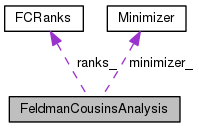
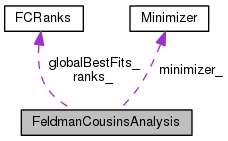
Deploy code docs to GitHub Pages Travis build: 34
Commit: 577bcd66e61e68fcf12d1c728ea380b63c1cfc5d

diff --git a/html/FeldmanCousins_8h_source.html b/html/FeldmanCousins_8h_source.html
@@ -183,23 +183,24 @@ var searchBox = new SearchBox("searchBox", "search",false,'Search');
 <div class="line"><a name="l00106"></a><span class="lineno">  106</span>&#160;</div>
 <div class="line"><a name="l00107"></a><span class="lineno"><a class="line" href="classFeldmanCousinsAnalysis.html#a369111f301236a55ef19aeb7ac0d9562">  107</a></span>&#160;        <a class="code" href="classFCRanks.html">FCRanks</a> &amp;<a class="code" href="classFeldmanCousinsAnalysis.html#a369111f301236a55ef19aeb7ac0d9562">GetRanks</a>(){<span class="keywordflow">return</span> <a class="code" href="classFeldmanCousinsAnalysis.html#a2a83aefd21bd62772ba9b8ef2a0afe37">ranks_</a>;}</div>
 <div class="line"><a name="l00108"></a><span class="lineno"><a class="line" href="classFeldmanCousinsAnalysis.html#a2a83aefd21bd62772ba9b8ef2a0afe37">  108</a></span>&#160;        <a class="code" href="classFCRanks.html">FCRanks</a> <a class="code" href="classFeldmanCousinsAnalysis.html#a2a83aefd21bd62772ba9b8ef2a0afe37">ranks_</a>;</div>
-<div class="line"><a name="l00109"></a><span class="lineno"><a class="line" href="classFeldmanCousinsAnalysis.html#a4a16f04a45c379c10b12f76714116226">  109</a></span>&#160;        <a class="code" href="classMinimizer.html">Minimizer</a> <a class="code" href="classFeldmanCousinsAnalysis.html#a4a16f04a45c379c10b12f76714116226">minimizer_</a>;</div>
-<div class="line"><a name="l00110"></a><span class="lineno">  110</span>&#160;<span class="keyword">private</span>:</div>
-<div class="line"><a name="l00111"></a><span class="lineno">  111</span>&#160;</div>
-<div class="line"><a name="l00112"></a><span class="lineno">  112</span>&#160;        boost::shared_ptr&lt;Likelihood&gt; llh_;</div>
-<div class="line"><a name="l00113"></a><span class="lineno">  113</span>&#160;        <span class="keyword">static</span> <span class="keywordtype">double</span> likelihoodRatioCrossings(<span class="keywordtype">double</span> xi, <span class="keywordtype">void</span> *params);</div>
-<div class="line"><a name="l00114"></a><span class="lineno">  114</span>&#160;</div>
-<div class="line"><a name="l00115"></a><span class="lineno">  115</span>&#160;        <span class="keywordtype">double</span> cl_;</div>
-<div class="line"><a name="l00116"></a><span class="lineno">  116</span>&#160;        <span class="keywordtype">bool</span> computedBestFit_;</div>
-<div class="line"><a name="l00117"></a><span class="lineno">  117</span>&#160;        <span class="keywordtype">bool</span> assumeChi2_;</div>
-<div class="line"><a name="l00118"></a><span class="lineno">  118</span>&#160;        <span class="keywordtype">bool</span> ranksCompSet_;</div>
-<div class="line"><a name="l00119"></a><span class="lineno">  119</span>&#160;        uint32_t likelihoodState_;</div>
-<div class="line"><a name="l00120"></a><span class="lineno">  120</span>&#160;};</div>
-<div class="line"><a name="l00121"></a><span class="lineno">  121</span>&#160;</div>
+<div class="line"><a name="l00109"></a><span class="lineno"><a class="line" href="classFeldmanCousinsAnalysis.html#a41ab3fd253179cd5fa77b651d4514fdc">  109</a></span>&#160;        <a class="code" href="classFCRanks.html">FCRanks</a> <a class="code" href="classFeldmanCousinsAnalysis.html#a41ab3fd253179cd5fa77b651d4514fdc">globalBestFits_</a>;</div>
+<div class="line"><a name="l00110"></a><span class="lineno"><a class="line" href="classFeldmanCousinsAnalysis.html#a4a16f04a45c379c10b12f76714116226">  110</a></span>&#160;        <a class="code" href="classMinimizer.html">Minimizer</a> <a class="code" href="classFeldmanCousinsAnalysis.html#a4a16f04a45c379c10b12f76714116226">minimizer_</a>;</div>
+<div class="line"><a name="l00111"></a><span class="lineno">  111</span>&#160;<span class="keyword">private</span>:</div>
+<div class="line"><a name="l00112"></a><span class="lineno">  112</span>&#160;</div>
+<div class="line"><a name="l00113"></a><span class="lineno">  113</span>&#160;        boost::shared_ptr&lt;Likelihood&gt; llh_;</div>
+<div class="line"><a name="l00114"></a><span class="lineno">  114</span>&#160;        <span class="keyword">static</span> <span class="keywordtype">double</span> likelihoodRatioCrossings(<span class="keywordtype">double</span> xi, <span class="keywordtype">void</span> *params);</div>
+<div class="line"><a name="l00115"></a><span class="lineno">  115</span>&#160;</div>
+<div class="line"><a name="l00116"></a><span class="lineno">  116</span>&#160;        <span class="keywordtype">double</span> cl_;</div>
+<div class="line"><a name="l00117"></a><span class="lineno">  117</span>&#160;        <span class="keywordtype">bool</span> computedBestFit_;</div>
+<div class="line"><a name="l00118"></a><span class="lineno">  118</span>&#160;        <span class="keywordtype">bool</span> assumeChi2_;</div>
+<div class="line"><a name="l00119"></a><span class="lineno">  119</span>&#160;        <span class="keywordtype">bool</span> ranksCompSet_;</div>
+<div class="line"><a name="l00120"></a><span class="lineno">  120</span>&#160;        uint32_t likelihoodState_;</div>
+<div class="line"><a name="l00121"></a><span class="lineno">  121</span>&#160;};</div>
 <div class="line"><a name="l00122"></a><span class="lineno">  122</span>&#160;</div>
 <div class="line"><a name="l00123"></a><span class="lineno">  123</span>&#160;</div>
 <div class="line"><a name="l00124"></a><span class="lineno">  124</span>&#160;</div>
-<div class="line"><a name="l00125"></a><span class="lineno">  125</span>&#160;<span class="preprocessor">#endif</span></div>
+<div class="line"><a name="l00125"></a><span class="lineno">  125</span>&#160;</div>
+<div class="line"><a name="l00126"></a><span class="lineno">  126</span>&#160;<span class="preprocessor">#endif</span></div>
 <div class="ttc" id="classFeldmanCousinsAnalysis_html_a2a83aefd21bd62772ba9b8ef2a0afe37"><div class="ttname"><a href="classFeldmanCousinsAnalysis.html#a2a83aefd21bd62772ba9b8ef2a0afe37">FeldmanCousinsAnalysis::ranks_</a></div><div class="ttdeci">FCRanks ranks_</div><div class="ttdef"><b>Definition:</b> FeldmanCousins.h:108</div></div>
 <div class="ttc" id="classFeldmanCousinsAnalysis_html_a2455d8b563e2f243f02c76d61bf10573"><div class="ttname"><a href="classFeldmanCousinsAnalysis.html#a2455d8b563e2f243f02c76d61bf10573">FeldmanCousinsAnalysis::GenerateLimitsEnsemble</a></div><div class="ttdeci">void GenerateLimitsEnsemble(double xi, bn::ndarray &amp;up, bn::ndarray &amp;down, uint64_t nExperiments, double cl=-1)</div><div class="ttdef"><b>Definition:</b> FeldmanCousins.cxx:238</div></div>
 <div class="ttc" id="classFeldmanCousinsAnalysis_html_a090ca9e45d445fed42345d0a71a589bd"><div class="ttname"><a href="classFeldmanCousinsAnalysis.html#a090ca9e45d445fed42345d0a71a589bd">FeldmanCousinsAnalysis::EvaluateTestsStatistic</a></div><div class="ttdeci">double EvaluateTestsStatistic(double xi)</div><div class="ttdef"><b>Definition:</b> FeldmanCousins.h:60</div></div>
@@ -211,12 +212,13 @@ var searchBox = new SearchBox("searchBox", "search",false,'Search');
 <div class="ttc" id="classFeldmanCousinsAnalysis_html_a5b2fbad9a24678ba86f0f5b082a5b726"><div class="ttname"><a href="classFeldmanCousinsAnalysis.html#a5b2fbad9a24678ba86f0f5b082a5b726">FeldmanCousinsAnalysis::FeldmanCousinsAnalysis</a></div><div class="ttdeci">FeldmanCousinsAnalysis(boost::shared_ptr&lt; Likelihood &gt; llh, double cl)</div><div class="ttdef"><b>Definition:</b> FeldmanCousins.h:45</div></div>
 <div class="ttc" id="classMinimizer_html_ace3797e38fc23cf74bf05a3b1c3cdc36"><div class="ttname"><a href="classMinimizer.html#ace3797e38fc23cf74bf05a3b1c3cdc36">Minimizer::bestFitLLH_</a></div><div class="ttdeci">double bestFitLLH_</div><div class="ttdoc">Log of the likelihood value at the best fit. </div><div class="ttdef"><b>Definition:</b> Minimizer.h:57</div></div>
 <div class="ttc" id="classFCRanks_html"><div class="ttname"><a href="classFCRanks.html">FCRanks</a></div><div class="ttdoc">A class that holds Feldman Cousins rank distribtions and provides some utilities to interpolate the c...</div><div class="ttdef"><b>Definition:</b> FCRanks.h:46</div></div>
+<div class="ttc" id="classFeldmanCousinsAnalysis_html_a41ab3fd253179cd5fa77b651d4514fdc"><div class="ttname"><a href="classFeldmanCousinsAnalysis.html#a41ab3fd253179cd5fa77b651d4514fdc">FeldmanCousinsAnalysis::globalBestFits_</a></div><div class="ttdeci">FCRanks globalBestFits_</div><div class="ttdef"><b>Definition:</b> FeldmanCousins.h:109</div></div>
 <div class="ttc" id="classFeldmanCousinsAnalysis_html_a0ed46c186508934d827e5fefef53be38"><div class="ttname"><a href="classFeldmanCousinsAnalysis.html#a0ed46c186508934d827e5fefef53be38">FeldmanCousinsAnalysis::ComputeLimits</a></div><div class="ttdeci">void ComputeLimits(double &amp;upper, double &amp;lower, bool assumeChi2)</div><div class="ttdef"><b>Definition:</b> FeldmanCousins.h:94</div></div>
 <div class="ttc" id="classFeldmanCousinsAnalysis_html_a369111f301236a55ef19aeb7ac0d9562"><div class="ttname"><a href="classFeldmanCousinsAnalysis.html#a369111f301236a55ef19aeb7ac0d9562">FeldmanCousinsAnalysis::GetRanks</a></div><div class="ttdeci">FCRanks &amp; GetRanks()</div><div class="ttdef"><b>Definition:</b> FeldmanCousins.h:107</div></div>
 <div class="ttc" id="classFeldmanCousinsAnalysis_html_a0f56a30ad2ec38520aa562fbea7f41cf"><div class="ttname"><a href="classFeldmanCousinsAnalysis.html#a0f56a30ad2ec38520aa562fbea7f41cf">FeldmanCousinsAnalysis::Sample</a></div><div class="ttdeci">void Sample(double xi)</div><div class="ttdef"><b>Definition:</b> FeldmanCousins.h:73</div></div>
 <div class="ttc" id="classMinimizer_html_a4419559871e702cd3da37d45081b1046"><div class="ttname"><a href="classMinimizer.html#a4419559871e702cd3da37d45081b1046">Minimizer::ComputeBestFit</a></div><div class="ttdeci">double ComputeBestFit(Likelihood &amp;lh)</div><div class="ttdef"><b>Definition:</b> Minimizer.cxx:15</div></div>
 <div class="ttc" id="Likelihood_8h_html"><div class="ttname"><a href="Likelihood_8h.html">Likelihood.h</a></div></div>
-<div class="ttc" id="classFeldmanCousinsAnalysis_html_a4a16f04a45c379c10b12f76714116226"><div class="ttname"><a href="classFeldmanCousinsAnalysis.html#a4a16f04a45c379c10b12f76714116226">FeldmanCousinsAnalysis::minimizer_</a></div><div class="ttdeci">Minimizer minimizer_</div><div class="ttdef"><b>Definition:</b> FeldmanCousins.h:109</div></div>
+<div class="ttc" id="classFeldmanCousinsAnalysis_html_a4a16f04a45c379c10b12f76714116226"><div class="ttname"><a href="classFeldmanCousinsAnalysis.html#a4a16f04a45c379c10b12f76714116226">FeldmanCousinsAnalysis::minimizer_</a></div><div class="ttdeci">Minimizer minimizer_</div><div class="ttdef"><b>Definition:</b> FeldmanCousins.h:110</div></div>
 <div class="ttc" id="classFCRanks_html_a04064e2ddef37f609caebed6eb4a7949"><div class="ttname"><a href="classFCRanks.html#a04064e2ddef37f609caebed6eb4a7949">FCRanks::AssumeChiSqure</a></div><div class="ttdeci">void AssumeChiSqure(bool assume)</div><div class="ttdef"><b>Definition:</b> FCRanks.h:104</div></div>
 <div class="ttc" id="Minimizer_8h_html"><div class="ttname"><a href="Minimizer_8h.html">Minimizer.h</a></div></div>
 <div class="ttc" id="FCRanks_8h_html"><div class="ttname"><a href="FCRanks_8h.html">FCRanks.h</a></div></div>

diff --git a/html/RNG_8h_source.html b/html/RNG_8h_source.html
@@ -113,7 +113,7 @@ var searchBox = new SearchBox("searchBox", "search",false,'Search');
 <div class="line"><a name="l00023"></a><span class="lineno">   23</span>&#160;</div>
 <div class="line"><a name="l00028"></a><span class="lineno"><a class="line" href="classRNG.html">   28</a></span>&#160;<span class="keyword">class </span><a class="code" href="classRNG.html">RNG</a>{</div>
 <div class="line"><a name="l00029"></a><span class="lineno">   29</span>&#160;   <span class="keyword">public</span>:</div>
-<div class="line"><a name="l00030"></a><span class="lineno"><a class="line" href="classRNG.html#add68b5f4738198b83f1021a1817fd821">   30</a></span>&#160;        <a class="code" href="classRNG.html#add68b5f4738198b83f1021a1817fd821">RNG</a>(uint seed):<a class="code" href="classRNG.html#a6b240cba939fb5463c7497153a852320">seed_</a>(seed){</div>
+<div class="line"><a name="l00030"></a><span class="lineno"><a class="line" href="classRNG.html#ad1a0404ddd79895cfc05432f06c9c385">   30</a></span>&#160;        <a class="code" href="classRNG.html#ad1a0404ddd79895cfc05432f06c9c385">RNG</a>(<span class="keywordtype">unsigned</span> <span class="keywordtype">int</span> seed):<a class="code" href="classRNG.html#aa644a44fe1386322507d92e23066d063">seed_</a>(seed){</div>
 <div class="line"><a name="l00031"></a><span class="lineno">   31</span>&#160;            <span class="keyword">const</span> gsl_rng_type *T = gsl_rng_default;</div>
 <div class="line"><a name="l00032"></a><span class="lineno">   32</span>&#160;            rng_ = gsl_rng_alloc(T);</div>
 <div class="line"><a name="l00033"></a><span class="lineno">   33</span>&#160;            gsl_rng_set(rng_, seed);</div>
@@ -125,7 +125,7 @@ var searchBox = new SearchBox("searchBox", "search",false,'Search');
 <div class="line"><a name="l00039"></a><span class="lineno"><a class="line" href="classRNG.html#a959d86ea22fc5bb2f5ff6ded9881137a">   39</a></span>&#160;        <span class="keywordtype">double</span> <a class="code" href="classRNG.html#a959d86ea22fc5bb2f5ff6ded9881137a">Poisson</a>(<span class="keywordtype">double</span> nu){<span class="keywordflow">return</span> gsl_ran_poisson(rng_, nu);}</div>
 <div class="line"><a name="l00040"></a><span class="lineno"><a class="line" href="classRNG.html#afe51d6c541a71af3a80c2ecf86d81523">   40</a></span>&#160;        <span class="keywordtype">double</span> <a class="code" href="classRNG.html#afe51d6c541a71af3a80c2ecf86d81523">Gauss</a>(<span class="keywordtype">double</span> mu, <span class="keywordtype">double</span> sigma){<span class="keywordflow">return</span> gsl_ran_gaussian(rng_, sigma) + mu;}</div>
 <div class="line"><a name="l00041"></a><span class="lineno"><a class="line" href="classRNG.html#a37fc5d27bda97b756e92565183f48d66">   41</a></span>&#160;        <span class="keywordtype">double</span> <a class="code" href="classRNG.html#a37fc5d27bda97b756e92565183f48d66">Binomial</a>(<span class="keywordtype">double</span> p, <span class="keywordtype">double</span> N){ <span class="keywordflow">return</span> gsl_ran_binomial(rng_, p,N);}</div>
-<div class="line"><a name="l00042"></a><span class="lineno"><a class="line" href="classRNG.html#a6b240cba939fb5463c7497153a852320">   42</a></span>&#160;        uint <a class="code" href="classRNG.html#a6b240cba939fb5463c7497153a852320">seed_</a>;</div>
+<div class="line"><a name="l00042"></a><span class="lineno"><a class="line" href="classRNG.html#aa644a44fe1386322507d92e23066d063">   42</a></span>&#160;        <span class="keywordtype">unsigned</span> <span class="keywordtype">int</span> <a class="code" href="classRNG.html#aa644a44fe1386322507d92e23066d063">seed_</a>;</div>
 <div class="line"><a name="l00043"></a><span class="lineno">   43</span>&#160;    <span class="keyword">private</span>:</div>
 <div class="line"><a name="l00044"></a><span class="lineno">   44</span>&#160;        gsl_rng *rng_;</div>
 <div class="line"><a name="l00045"></a><span class="lineno">   45</span>&#160;</div>
@@ -135,12 +135,12 @@ var searchBox = new SearchBox("searchBox", "search",false,'Search');
 <div class="ttc" id="classRNG_html_a6f369de914cf763da0a0bc8c17affb12"><div class="ttname"><a href="classRNG.html#a6f369de914cf763da0a0bc8c17affb12">RNG::Uniform</a></div><div class="ttdeci">double Uniform()</div><div class="ttdef"><b>Definition:</b> RNG.h:37</div></div>
 <div class="ttc" id="classRNG_html_a37fc5d27bda97b756e92565183f48d66"><div class="ttname"><a href="classRNG.html#a37fc5d27bda97b756e92565183f48d66">RNG::Binomial</a></div><div class="ttdeci">double Binomial(double p, double N)</div><div class="ttdef"><b>Definition:</b> RNG.h:41</div></div>
 <div class="ttc" id="classRNG_html_afe51d6c541a71af3a80c2ecf86d81523"><div class="ttname"><a href="classRNG.html#afe51d6c541a71af3a80c2ecf86d81523">RNG::Gauss</a></div><div class="ttdeci">double Gauss(double mu, double sigma)</div><div class="ttdef"><b>Definition:</b> RNG.h:40</div></div>
-<div class="ttc" id="classRNG_html_a6b240cba939fb5463c7497153a852320"><div class="ttname"><a href="classRNG.html#a6b240cba939fb5463c7497153a852320">RNG::seed_</a></div><div class="ttdeci">uint seed_</div><div class="ttdef"><b>Definition:</b> RNG.h:42</div></div>
 <div class="ttc" id="classRNG_html"><div class="ttname"><a href="classRNG.html">RNG</a></div><div class="ttdoc">A small wrapper class around the GSL random number generator. </div><div class="ttdef"><b>Definition:</b> RNG.h:28</div></div>
 <div class="ttc" id="classRNG_html_aa8a14d0a3367ada957ab898ff6974957"><div class="ttname"><a href="classRNG.html#aa8a14d0a3367ada957ab898ff6974957">RNG::Exp</a></div><div class="ttdeci">double Exp(double tau)</div><div class="ttdef"><b>Definition:</b> RNG.h:38</div></div>
-<div class="ttc" id="classRNG_html_add68b5f4738198b83f1021a1817fd821"><div class="ttname"><a href="classRNG.html#add68b5f4738198b83f1021a1817fd821">RNG::RNG</a></div><div class="ttdeci">RNG(uint seed)</div><div class="ttdef"><b>Definition:</b> RNG.h:30</div></div>
+<div class="ttc" id="classRNG_html_aa644a44fe1386322507d92e23066d063"><div class="ttname"><a href="classRNG.html#aa644a44fe1386322507d92e23066d063">RNG::seed_</a></div><div class="ttdeci">unsigned int seed_</div><div class="ttdef"><b>Definition:</b> RNG.h:42</div></div>
 <div class="ttc" id="classRNG_html_a959d86ea22fc5bb2f5ff6ded9881137a"><div class="ttname"><a href="classRNG.html#a959d86ea22fc5bb2f5ff6ded9881137a">RNG::Poisson</a></div><div class="ttdeci">double Poisson(double nu)</div><div class="ttdef"><b>Definition:</b> RNG.h:39</div></div>
 <div class="ttc" id="classRNG_html_abe0c541fcfa0b12ef7446eccb166d510"><div class="ttname"><a href="classRNG.html#abe0c541fcfa0b12ef7446eccb166d510">RNG::~RNG</a></div><div class="ttdeci">~RNG()</div><div class="ttdef"><b>Definition:</b> RNG.h:35</div></div>
+<div class="ttc" id="classRNG_html_ad1a0404ddd79895cfc05432f06c9c385"><div class="ttname"><a href="classRNG.html#ad1a0404ddd79895cfc05432f06c9c385">RNG::RNG</a></div><div class="ttdeci">RNG(unsigned int seed)</div><div class="ttdef"><b>Definition:</b> RNG.h:30</div></div>
 </div><!-- fragment --></div><!-- contents -->
 <!-- start footer part -->
 <hr class="footer"/><address class="footer"><small>

diff --git a/html/classRNG.html b/html/classRNG.html
@@ -98,8 +98,8 @@ var searchBox = new SearchBox("searchBox", "search",false,'Search');
 <table class="memberdecls">
 <tr class="heading"><td colspan="2"><h2 class="groupheader"><a name="pub-methods"></a>
 Public Member Functions</h2></td></tr>
-<tr class="memitem:add68b5f4738198b83f1021a1817fd821"><td class="memItemLeft" align="right" valign="top">&#160;</td><td class="memItemRight" valign="bottom"><a class="el" href="classRNG.html#add68b5f4738198b83f1021a1817fd821">RNG</a> (uint seed)</td></tr>
-<tr class="separator:add68b5f4738198b83f1021a1817fd821"><td class="memSeparator" colspan="2">&#160;</td></tr>
+<tr class="memitem:ad1a0404ddd79895cfc05432f06c9c385"><td class="memItemLeft" align="right" valign="top">&#160;</td><td class="memItemRight" valign="bottom"><a class="el" href="classRNG.html#ad1a0404ddd79895cfc05432f06c9c385">RNG</a> (unsigned int seed)</td></tr>
+<tr class="separator:ad1a0404ddd79895cfc05432f06c9c385"><td class="memSeparator" colspan="2">&#160;</td></tr>
 <tr class="memitem:abe0c541fcfa0b12ef7446eccb166d510"><td class="memItemLeft" align="right" valign="top">&#160;</td><td class="memItemRight" valign="bottom"><a class="el" href="classRNG.html#abe0c541fcfa0b12ef7446eccb166d510">~RNG</a> ()</td></tr>
 <tr class="separator:abe0c541fcfa0b12ef7446eccb166d510"><td class="memSeparator" colspan="2">&#160;</td></tr>
 <tr class="memitem:a6f369de914cf763da0a0bc8c17affb12"><td class="memItemLeft" align="right" valign="top">double&#160;</td><td class="memItemRight" valign="bottom"><a class="el" href="classRNG.html#a6f369de914cf763da0a0bc8c17affb12">Uniform</a> ()</td></tr>
@@ -115,14 +115,14 @@ Public Member Functions</h2></td></tr>
 </table><table class="memberdecls">
 <tr class="heading"><td colspan="2"><h2 class="groupheader"><a name="pub-attribs"></a>
 Public Attributes</h2></td></tr>
-<tr class="memitem:a6b240cba939fb5463c7497153a852320"><td class="memItemLeft" align="right" valign="top">uint&#160;</td><td class="memItemRight" valign="bottom"><a class="el" href="classRNG.html#a6b240cba939fb5463c7497153a852320">seed_</a></td></tr>
-<tr class="separator:a6b240cba939fb5463c7497153a852320"><td class="memSeparator" colspan="2">&#160;</td></tr>
+<tr class="memitem:aa644a44fe1386322507d92e23066d063"><td class="memItemLeft" align="right" valign="top">unsigned int&#160;</td><td class="memItemRight" valign="bottom"><a class="el" href="classRNG.html#aa644a44fe1386322507d92e23066d063">seed_</a></td></tr>
+<tr class="separator:aa644a44fe1386322507d92e23066d063"><td class="memSeparator" colspan="2">&#160;</td></tr>
 </table>
 <a name="details" id="details"></a><h2 class="groupheader">Detailed Description</h2>
 <div class="textblock"><p>A small wrapper class around the GSL random number generator. </p>
 <p>class: <a class="el" href="classRNG.html" title="A small wrapper class around the GSL random number generator. ">RNG</a> </p>
 </div><h2 class="groupheader">Constructor &amp; Destructor Documentation</h2>
-<a class="anchor" id="add68b5f4738198b83f1021a1817fd821"></a>
+<a class="anchor" id="ad1a0404ddd79895cfc05432f06c9c385"></a>
 <div class="memitem">
 <div class="memproto">
 <table class="mlabels">
@@ -132,7 +132,7 @@ Public Attributes</h2></td></tr>
         <tr>
           <td class="memname">RNG::RNG </td>
           <td>(</td>
-          <td class="paramtype">uint&#160;</td>
+          <td class="paramtype">unsigned int&#160;</td>
           <td class="paramname"><em>seed</em></td><td>)</td>
           <td></td>
         </tr>
@@ -310,12 +310,12 @@ Public Attributes</h2></td></tr>
 </div>
 </div>
 <h2 class="groupheader">Member Data Documentation</h2>
-<a class="anchor" id="a6b240cba939fb5463c7497153a852320"></a>
+<a class="anchor" id="aa644a44fe1386322507d92e23066d063"></a>
 <div class="memitem">
 <div class="memproto">
       <table class="memname">
         <tr>
-          <td class="memname">uint RNG::seed_</td>
+          <td class="memname">unsigned int RNG::seed_</td>
         </tr>
       </table>
 </div><div class="memdoc">

diff --git a/html/classFeldmanCousinsAnalysis-members.html b/html/classFeldmanCousinsAnalysis-members.html
@@ -96,10 +96,11 @@ var searchBox = new SearchBox("searchBox", "search",false,'Search');
   <tr class="even"><td class="entry"><a class="el" href="classFeldmanCousinsAnalysis.html#a5b2fbad9a24678ba86f0f5b082a5b726">FeldmanCousinsAnalysis</a>(boost::shared_ptr&lt; Likelihood &gt; llh, double cl)</td><td class="entry"><a class="el" href="classFeldmanCousinsAnalysis.html">FeldmanCousinsAnalysis</a></td><td class="entry"><span class="mlabel">inline</span></td></tr>
   <tr><td class="entry"><a class="el" href="classFeldmanCousinsAnalysis.html#a2455d8b563e2f243f02c76d61bf10573">GenerateLimitsEnsemble</a>(double xi, bn::ndarray &amp;up, bn::ndarray &amp;down, uint64_t nExperiments, double cl=-1)</td><td class="entry"><a class="el" href="classFeldmanCousinsAnalysis.html">FeldmanCousinsAnalysis</a></td><td class="entry"></td></tr>
   <tr class="even"><td class="entry"><a class="el" href="classFeldmanCousinsAnalysis.html#a369111f301236a55ef19aeb7ac0d9562">GetRanks</a>()</td><td class="entry"><a class="el" href="classFeldmanCousinsAnalysis.html">FeldmanCousinsAnalysis</a></td><td class="entry"><span class="mlabel">inline</span></td></tr>
-  <tr><td class="entry"><a class="el" href="classFeldmanCousinsAnalysis.html#a4a16f04a45c379c10b12f76714116226">minimizer_</a></td><td class="entry"><a class="el" href="classFeldmanCousinsAnalysis.html">FeldmanCousinsAnalysis</a></td><td class="entry"></td></tr>
-  <tr class="even"><td class="entry"><a class="el" href="classFeldmanCousinsAnalysis.html#a2a83aefd21bd62772ba9b8ef2a0afe37">ranks_</a></td><td class="entry"><a class="el" href="classFeldmanCousinsAnalysis.html">FeldmanCousinsAnalysis</a></td><td class="entry"></td></tr>
-  <tr><td class="entry"><a class="el" href="classFeldmanCousinsAnalysis.html#a0f56a30ad2ec38520aa562fbea7f41cf">Sample</a>(double xi)</td><td class="entry"><a class="el" href="classFeldmanCousinsAnalysis.html">FeldmanCousinsAnalysis</a></td><td class="entry"><span class="mlabel">inline</span></td></tr>
-  <tr class="even"><td class="entry"><a class="el" href="classFeldmanCousinsAnalysis.html#a5761bf4e0cd5968add070215988517ca">SetFCRanks</a>(FCRanks const &amp;ranks)</td><td class="entry"><a class="el" href="classFeldmanCousinsAnalysis.html">FeldmanCousinsAnalysis</a></td><td class="entry"><span class="mlabel">inline</span></td></tr>
+  <tr><td class="entry"><a class="el" href="classFeldmanCousinsAnalysis.html#a41ab3fd253179cd5fa77b651d4514fdc">globalBestFits_</a></td><td class="entry"><a class="el" href="classFeldmanCousinsAnalysis.html">FeldmanCousinsAnalysis</a></td><td class="entry"></td></tr>
+  <tr class="even"><td class="entry"><a class="el" href="classFeldmanCousinsAnalysis.html#a4a16f04a45c379c10b12f76714116226">minimizer_</a></td><td class="entry"><a class="el" href="classFeldmanCousinsAnalysis.html">FeldmanCousinsAnalysis</a></td><td class="entry"></td></tr>
+  <tr><td class="entry"><a class="el" href="classFeldmanCousinsAnalysis.html#a2a83aefd21bd62772ba9b8ef2a0afe37">ranks_</a></td><td class="entry"><a class="el" href="classFeldmanCousinsAnalysis.html">FeldmanCousinsAnalysis</a></td><td class="entry"></td></tr>
+  <tr class="even"><td class="entry"><a class="el" href="classFeldmanCousinsAnalysis.html#a0f56a30ad2ec38520aa562fbea7f41cf">Sample</a>(double xi)</td><td class="entry"><a class="el" href="classFeldmanCousinsAnalysis.html">FeldmanCousinsAnalysis</a></td><td class="entry"><span class="mlabel">inline</span></td></tr>
+  <tr><td class="entry"><a class="el" href="classFeldmanCousinsAnalysis.html#a5761bf4e0cd5968add070215988517ca">SetFCRanks</a>(FCRanks const &amp;ranks)</td><td class="entry"><a class="el" href="classFeldmanCousinsAnalysis.html">FeldmanCousinsAnalysis</a></td><td class="entry"><span class="mlabel">inline</span></td></tr>
 </table></div><!-- contents -->
 <!-- start footer part -->
 <hr class="footer"/><address class="footer"><small>

diff --git a/html/classFeldmanCousinsAnalysis.html b/html/classFeldmanCousinsAnalysis.html
@@ -97,7 +97,7 @@ Collaboration diagram for FeldmanCousinsAnalysis:</div>
 <div class="dyncontent">
 <div class="center"><img src="classFeldmanCousinsAnalysis__coll__graph.png" border="0" usemap="#FeldmanCousinsAnalysis_coll__map" alt="Collaboration graph"/></div>
 <map name="FeldmanCousinsAnalysis_coll__map" id="FeldmanCousinsAnalysis_coll__map">
-<area shape="rect" id="node2" href="classFCRanks.html" title="A class that holds Feldman Cousins rank distribtions and provides some utilities to interpolate the c..." alt="" coords="5,5,83,32"/><area shape="rect" id="node3" href="classMinimizer.html" title="A small wrapper class around the GSL minimizer. " alt="" coords="107,5,185,32"/></map>
+<area shape="rect" id="node2" href="classFCRanks.html" title="A class that holds Feldman Cousins rank distribtions and provides some utilities to interpolate the c..." alt="" coords="5,5,83,32"/><area shape="rect" id="node3" href="classMinimizer.html" title="A small wrapper class around the GSL minimizer. " alt="" coords="130,5,208,32"/></map>
 <center><span class="legend">[<a href="graph_legend.html">legend</a>]</span></center></div>
 <table class="memberdecls">
 <tr class="heading"><td colspan="2"><h2 class="groupheader"><a name="pub-methods"></a>
@@ -125,6 +125,8 @@ Public Member Functions</h2></td></tr>
 Public Attributes</h2></td></tr>
 <tr class="memitem:a2a83aefd21bd62772ba9b8ef2a0afe37"><td class="memItemLeft" align="right" valign="top"><a class="el" href="classFCRanks.html">FCRanks</a>&#160;</td><td class="memItemRight" valign="bottom"><a class="el" href="classFeldmanCousinsAnalysis.html#a2a83aefd21bd62772ba9b8ef2a0afe37">ranks_</a></td></tr>
 <tr class="separator:a2a83aefd21bd62772ba9b8ef2a0afe37"><td class="memSeparator" colspan="2">&#160;</td></tr>
+<tr class="memitem:a41ab3fd253179cd5fa77b651d4514fdc"><td class="memItemLeft" align="right" valign="top"><a class="el" href="classFCRanks.html">FCRanks</a>&#160;</td><td class="memItemRight" valign="bottom"><a class="el" href="classFeldmanCousinsAnalysis.html#a41ab3fd253179cd5fa77b651d4514fdc">globalBestFits_</a></td></tr>
+<tr class="separator:a41ab3fd253179cd5fa77b651d4514fdc"><td class="memSeparator" colspan="2">&#160;</td></tr>
 <tr class="memitem:a4a16f04a45c379c10b12f76714116226"><td class="memItemLeft" align="right" valign="top"><a class="el" href="classMinimizer.html">Minimizer</a>&#160;</td><td class="memItemRight" valign="bottom"><a class="el" href="classFeldmanCousinsAnalysis.html#a4a16f04a45c379c10b12f76714116226">minimizer_</a></td></tr>
 <tr class="separator:a4a16f04a45c379c10b12f76714116226"><td class="memSeparator" colspan="2">&#160;</td></tr>
 </table>
@@ -435,6 +437,18 @@ Public Attributes</h2></td></tr>
 </div>
 </div>
 <h2 class="groupheader">Member Data Documentation</h2>
+<a class="anchor" id="a41ab3fd253179cd5fa77b651d4514fdc"></a>
+<div class="memitem">
+<div class="memproto">
+      <table class="memname">
+        <tr>
+          <td class="memname"><a class="el" href="classFCRanks.html">FCRanks</a> FeldmanCousinsAnalysis::globalBestFits_</td>
+        </tr>
+      </table>
+</div><div class="memdoc">
+
+</div>
+</div>
 <a class="anchor" id="a4a16f04a45c379c10b12f76714116226"></a>
 <div class="memitem">
 <div class="memproto">

diff --git a/html/classDistribution.html b/html/classDistribution.html
@@ -100,8 +100,8 @@ var searchBox = new SearchBox("searchBox", "search",false,'Search');
 Public Member Functions</h2></td></tr>
 <tr class="memitem:a7671d190019f4e6d1014a561a9e3cc65"><td class="memItemLeft" align="right" valign="top">&#160;</td><td class="memItemRight" valign="bottom"><a class="el" href="classDistribution.html#a7671d190019f4e6d1014a561a9e3cc65">Distribution</a> (<a class="el" href="classDistribution.html">Distribution</a> const &amp;base, boost::shared_ptr&lt; <a class="el" href="classRNG.html">RNG</a> &gt; rng)</td></tr>
 <tr class="separator:a7671d190019f4e6d1014a561a9e3cc65"><td class="memSeparator" colspan="2">&#160;</td></tr>
-<tr class="memitem:a2ee6e69ceb1df2813df56c6883cbb326"><td class="memItemLeft" align="right" valign="top">&#160;</td><td class="memItemRight" valign="bottom"><a class="el" href="classDistribution.html#a2ee6e69ceb1df2813df56c6883cbb326">Distribution</a> (std::vector&lt; double &gt;const &amp;distribution, double rMin, double rMax, uint rSeed=1)</td></tr>
-<tr class="separator:a2ee6e69ceb1df2813df56c6883cbb326"><td class="memSeparator" colspan="2">&#160;</td></tr>
+<tr class="memitem:aa3e0993c88569f42c2a14124fa06bee6"><td class="memItemLeft" align="right" valign="top">&#160;</td><td class="memItemRight" valign="bottom"><a class="el" href="classDistribution.html#aa3e0993c88569f42c2a14124fa06bee6">Distribution</a> (std::vector&lt; double &gt;const &amp;distribution, double rMin, double rMax, unsigned int rSeed=1)</td></tr>
+<tr class="separator:aa3e0993c88569f42c2a14124fa06bee6"><td class="memSeparator" colspan="2">&#160;</td></tr>
 <tr class="memitem:a26a55e9b524f94fb5c75e3c8abe96ecd"><td class="memItemLeft" align="right" valign="top">double&#160;</td><td class="memItemRight" valign="bottom"><a class="el" href="classDistribution.html#a26a55e9b524f94fb5c75e3c8abe96ecd">PDF</a> (double x) const </td></tr>
 <tr class="memdesc:a26a55e9b524f94fb5c75e3c8abe96ecd"><td class="mdescLeft">&#160;</td><td class="mdescRight">Returns the pdf value evaluated at the given value.  <a href="#a26a55e9b524f94fb5c75e3c8abe96ecd">More...</a><br/></td></tr>
 <tr class="separator:a26a55e9b524f94fb5c75e3c8abe96ecd"><td class="memSeparator" colspan="2">&#160;</td></tr>
@@ -173,7 +173,7 @@ Friends</h2></td></tr>
 
 </div>
 </div>
-<a class="anchor" id="a2ee6e69ceb1df2813df56c6883cbb326"></a>
+<a class="anchor" id="aa3e0993c88569f42c2a14124fa06bee6"></a>
 <div class="memitem">
 <div class="memproto">
       <table class="memname">
@@ -198,7 +198,7 @@ Friends</h2></td></tr>
         <tr>
           <td class="paramkey"></td>
           <td></td>
-          <td class="paramtype">uint&#160;</td>
+          <td class="paramtype">unsigned int&#160;</td>
           <td class="paramname"><em>rSeed</em> = <code>1</code>&#160;</td>
         </tr>
         <tr>

diff --git a/html/classDistribution-members.html b/html/classDistribution-members.html
@@ -92,7 +92,7 @@ var searchBox = new SearchBox("searchBox", "search",false,'Search');
   <tr class="even"><td class="entry"><a class="el" href="classDistribution.html#ab7b6b8c6018ab181645199038b0dba3a">addDistributions</a>(double w1, Distribution const &amp;dst1, double w2, Distribution const &amp;dst2, Distribution &amp;target)</td><td class="entry"><a class="el" href="classDistribution.html">Distribution</a></td><td class="entry"><span class="mlabel">friend</span></td></tr>
   <tr><td class="entry"><a class="el" href="classDistribution.html#ac852b7915ba69e2d8f9cee0e5dab68b5">CDF</a>(double x) const </td><td class="entry"><a class="el" href="classDistribution.html">Distribution</a></td><td class="entry"></td></tr>
   <tr class="even"><td class="entry"><a class="el" href="classDistribution.html#a7671d190019f4e6d1014a561a9e3cc65">Distribution</a>(Distribution const &amp;base, boost::shared_ptr&lt; RNG &gt; rng)</td><td class="entry"><a class="el" href="classDistribution.html">Distribution</a></td><td class="entry"></td></tr>
-  <tr><td class="entry"><a class="el" href="classDistribution.html#a2ee6e69ceb1df2813df56c6883cbb326">Distribution</a>(std::vector&lt; double &gt;const &amp;distribution, double rMin, double rMax, uint rSeed=1)</td><td class="entry"><a class="el" href="classDistribution.html">Distribution</a></td><td class="entry"></td></tr>
+  <tr><td class="entry"><a class="el" href="classDistribution.html#aa3e0993c88569f42c2a14124fa06bee6">Distribution</a>(std::vector&lt; double &gt;const &amp;distribution, double rMin, double rMax, unsigned int rSeed=1)</td><td class="entry"><a class="el" href="classDistribution.html">Distribution</a></td><td class="entry"></td></tr>
   <tr class="even"><td class="entry"><a class="el" href="classDistribution.html#a8d5beb423a42b4acb0724e24ddb05195">GetNBins</a>() const </td><td class="entry"><a class="el" href="classDistribution.html">Distribution</a></td><td class="entry"><span class="mlabel">inline</span></td></tr>
   <tr><td class="entry"><a class="el" href="classDistribution.html#a58298747fcca2bd64976ae247df3f3e5">GetPDFVector</a>()</td><td class="entry"><a class="el" href="classDistribution.html">Distribution</a></td><td class="entry"><span class="mlabel">inline</span></td></tr>
   <tr class="even"><td class="entry"><a class="el" href="classDistribution.html#a3802925dff4de220fbe8e214e42e1e33">GetRangeMax</a>() const </td><td class="entry"><a class="el" href="classDistribution.html">Distribution</a></td><td class="entry"><span class="mlabel">inline</span></td></tr>

diff --git a/html/classRNG-members.html b/html/classRNG-members.html
@@ -93,8 +93,8 @@ var searchBox = new SearchBox("searchBox", "search",false,'Search');
   <tr><td class="entry"><a class="el" href="classRNG.html#aa8a14d0a3367ada957ab898ff6974957">Exp</a>(double tau)</td><td class="entry"><a class="el" href="classRNG.html">RNG</a></td><td class="entry"><span class="mlabel">inline</span></td></tr>
   <tr class="even"><td class="entry"><a class="el" href="classRNG.html#afe51d6c541a71af3a80c2ecf86d81523">Gauss</a>(double mu, double sigma)</td><td class="entry"><a class="el" href="classRNG.html">RNG</a></td><td class="entry"><span class="mlabel">inline</span></td></tr>
   <tr><td class="entry"><a class="el" href="classRNG.html#a959d86ea22fc5bb2f5ff6ded9881137a">Poisson</a>(double nu)</td><td class="entry"><a class="el" href="classRNG.html">RNG</a></td><td class="entry"><span class="mlabel">inline</span></td></tr>
-  <tr class="even"><td class="entry"><a class="el" href="classRNG.html#add68b5f4738198b83f1021a1817fd821">RNG</a>(uint seed)</td><td class="entry"><a class="el" href="classRNG.html">RNG</a></td><td class="entry"><span class="mlabel">inline</span></td></tr>
-  <tr><td class="entry"><a class="el" href="classRNG.html#a6b240cba939fb5463c7497153a852320">seed_</a></td><td class="entry"><a class="el" href="classRNG.html">RNG</a></td><td class="entry"></td></tr>
+  <tr class="even"><td class="entry"><a class="el" href="classRNG.html#ad1a0404ddd79895cfc05432f06c9c385">RNG</a>(unsigned int seed)</td><td class="entry"><a class="el" href="classRNG.html">RNG</a></td><td class="entry"><span class="mlabel">inline</span></td></tr>
+  <tr><td class="entry"><a class="el" href="classRNG.html#aa644a44fe1386322507d92e23066d063">seed_</a></td><td class="entry"><a class="el" href="classRNG.html">RNG</a></td><td class="entry"></td></tr>
   <tr class="even"><td class="entry"><a class="el" href="classRNG.html#a6f369de914cf763da0a0bc8c17affb12">Uniform</a>()</td><td class="entry"><a class="el" href="classRNG.html">RNG</a></td><td class="entry"><span class="mlabel">inline</span></td></tr>
   <tr><td class="entry"><a class="el" href="classRNG.html#abe0c541fcfa0b12ef7446eccb166d510">~RNG</a>()</td><td class="entry"><a class="el" href="classRNG.html">RNG</a></td><td class="entry"><span class="mlabel">inline</span></td></tr>
 </table></div><!-- contents -->

diff --git a/html/Distribution_8h_source.html b/html/Distribution_8h_source.html
@@ -117,7 +117,7 @@ var searchBox = new SearchBox("searchBox", "search",false,'Search');
 <div class="line"><a name="l00033"></a><span class="lineno">   33</span>&#160;   <span class="keyword">public</span>:</div>
 <div class="line"><a name="l00034"></a><span class="lineno">   34</span>&#160;</div>
 <div class="line"><a name="l00035"></a><span class="lineno">   35</span>&#160;        <a class="code" href="classDistribution.html#a7671d190019f4e6d1014a561a9e3cc65">Distribution</a>(<a class="code" href="classDistribution.html">Distribution</a> <span class="keyword">const</span> &amp;base, boost::shared_ptr&lt;RNG&gt; rng);</div>
-<div class="line"><a name="l00036"></a><span class="lineno">   36</span>&#160;        <a class="code" href="classDistribution.html#a7671d190019f4e6d1014a561a9e3cc65">Distribution</a>(std::vector&lt;double&gt;<span class="keyword">const</span> &amp;distribution, <span class="keywordtype">double</span> rMin, <span class="keywordtype">double</span> rMax, uint rSeed = 1);</div>
+<div class="line"><a name="l00036"></a><span class="lineno">   36</span>&#160;        <a class="code" href="classDistribution.html#a7671d190019f4e6d1014a561a9e3cc65">Distribution</a>(std::vector&lt;double&gt;<span class="keyword">const</span> &amp;distribution, <span class="keywordtype">double</span> rMin, <span class="keywordtype">double</span> rMax, <span class="keywordtype">unsigned</span> <span class="keywordtype">int</span> rSeed = 1);</div>
 <div class="line"><a name="l00037"></a><span class="lineno">   37</span>&#160;</div>
 <div class="line"><a name="l00039"></a><span class="lineno">   39</span>&#160;        <span class="keywordtype">double</span> <a class="code" href="classDistribution.html#a26a55e9b524f94fb5c75e3c8abe96ecd">PDF</a>(<span class="keywordtype">double</span> x) <span class="keyword">const</span>; </div>
 <div class="line"><a name="l00040"></a><span class="lineno">   40</span>&#160;</div>

diff --git a/html/functions.html b/html/functions.html
@@ -302,7 +302,8 @@ var searchBox = new SearchBox("searchBox", "search",false,'Search');
 , <a class="el" href="structNeymanThreadData.html#a5de558380b8e1c7c08960526d91d8841">NeymanThreadData</a>
 </li>
 <li>globalBestFits_
-: <a class="el" href="classNeymanAnalysis.html#a1e239edced6826a979c0e2c541060ecf">NeymanAnalysis</a>
+: <a class="el" href="classFeldmanCousinsAnalysis.html#a41ab3fd253179cd5fa77b651d4514fdc">FeldmanCousinsAnalysis</a>
+, <a class="el" href="classNeymanAnalysis.html#a1e239edced6826a979c0e2c541060ecf">NeymanAnalysis</a>
 </li>
 <li>globalRanks
 : <a class="el" href="structFCThreadData.html#afdceefad89e168d411041e126fa48a0c">FCThreadData</a>
@@ -461,7 +462,7 @@ var searchBox = new SearchBox("searchBox", "search",false,'Search');
 : <a class="el" href="classFCRanks.html#a7152d0742e2c2efa495582c155ab3ec9">FCRanks</a>
 </li>
 <li>RNG()
-: <a class="el" href="classRNG.html#add68b5f4738198b83f1021a1817fd821">RNG</a>
+: <a class="el" href="classRNG.html#ad1a0404ddd79895cfc05432f06c9c385">RNG</a>
 </li>
 <li>rng_
 : <a class="el" href="classBinnedLikelihood.html#a6a3e39234f7cb8a1a28df28204884632">BinnedLikelihood</a>
@@ -489,7 +490,7 @@ var searchBox = new SearchBox("searchBox", "search",false,'Search');
 : <a class="el" href="classDistribution.html#aeaaf3037d0c8167d4c41fe4213df3181">Distribution</a>
 </li>
 <li>seed_
-: <a class="el" href="classRNG.html#a6b240cba939fb5463c7497153a852320">RNG</a>
+: <a class="el" href="classRNG.html#aa644a44fe1386322507d92e23066d063">RNG</a>
 </li>
 <li>serialize()
 : <a class="el" href="classFCRanks.html#a920cac200dd2b306fe92b3423f83d6e2">FCRanks</a>

diff --git a/html/search/all_3.js b/html/search/all_3.js
@@ -1,7 +1,7 @@
 var searchData=
 [
   ['distribtion_5fconstructor',['distribtion_constructor',['../namespacemlsandbox_1_1python.html#aa2d95d46d684b8e8a9e6041e6753904e',1,'mlsandbox::python']]],
-  ['distribution',['Distribution',['../classDistribution.html',1,'Distribution'],['../classDistribution.html#a7671d190019f4e6d1014a561a9e3cc65',1,'Distribution::Distribution(Distribution const &amp;base, boost::shared_ptr&lt; RNG &gt; rng)'],['../classDistribution.html#a2ee6e69ceb1df2813df56c6883cbb326',1,'Distribution::Distribution(std::vector&lt; double &gt;const &amp;distribution, double rMin, double rMax, uint rSeed=1)']]],
+  ['distribution',['Distribution',['../classDistribution.html',1,'Distribution'],['../classDistribution.html#a7671d190019f4e6d1014a561a9e3cc65',1,'Distribution::Distribution(Distribution const &amp;base, boost::shared_ptr&lt; RNG &gt; rng)'],['../classDistribution.html#aa3e0993c88569f42c2a14124fa06bee6',1,'Distribution::Distribution(std::vector&lt; double &gt;const &amp;distribution, double rMin, double rMax, unsigned int rSeed=1)']]],
   ['distribution_2ecxx',['Distribution.cxx',['../MLSandbox_2Distribution_8cxx.html',1,'']]],
   ['distribution_2ecxx',['Distribution.cxx',['../pybindings_2Distribution_8cxx.html',1,'']]],
   ['distribution_2eh',['Distribution.h',['../Distribution_8h.html',1,'']]]

diff --git a/html/search/all_6.js b/html/search/all_6.js
@@ -16,6 +16,6 @@ var searchData=
   ['getranks',['GetRanks',['../classFeldmanCousinsAnalysis.html#a369111f301236a55ef19aeb7ac0d9562',1,'FeldmanCousinsAnalysis']]],
   ['getsignalpdf',['GetSignalPDF',['../classLikelihoodCollection.html#acd787cbdd7ca9dbdc09bb2ec1972e29d',1,'LikelihoodCollection::GetSignalPDF()'],['../classSignalContaminatedLH.html#a4172a3ca2e8261150d5008886342529f',1,'SignalContaminatedLH::GetSignalPDF()']]],
   ['globalbestfits',['globalBestFits',['../structFCThreadData.html#a8a5d6203aab57c1c05f4d6a2fa549344',1,'FCThreadData::globalBestFits()'],['../structNeymanThreadData.html#a5de558380b8e1c7c08960526d91d8841',1,'NeymanThreadData::globalBestFits()']]],
-  ['globalbestfits_5f',['globalBestFits_',['../classNeymanAnalysis.html#a1e239edced6826a979c0e2c541060ecf',1,'NeymanAnalysis']]],
+  ['globalbestfits_5f',['globalBestFits_',['../classFeldmanCousinsAnalysis.html#a41ab3fd253179cd5fa77b651d4514fdc',1,'FeldmanCousinsAnalysis::globalBestFits_()'],['../classNeymanAnalysis.html#a1e239edced6826a979c0e2c541060ecf',1,'NeymanAnalysis::globalBestFits_()']]],
   ['globalranks',['globalRanks',['../structFCThreadData.html#afdceefad89e168d411041e126fa48a0c',1,'FCThreadData::globalRanks()'],['../structNeymanThreadData.html#a800f5dd68444c0ec9654946105759afc',1,'NeymanThreadData::globalRanks()']]]
 ];
